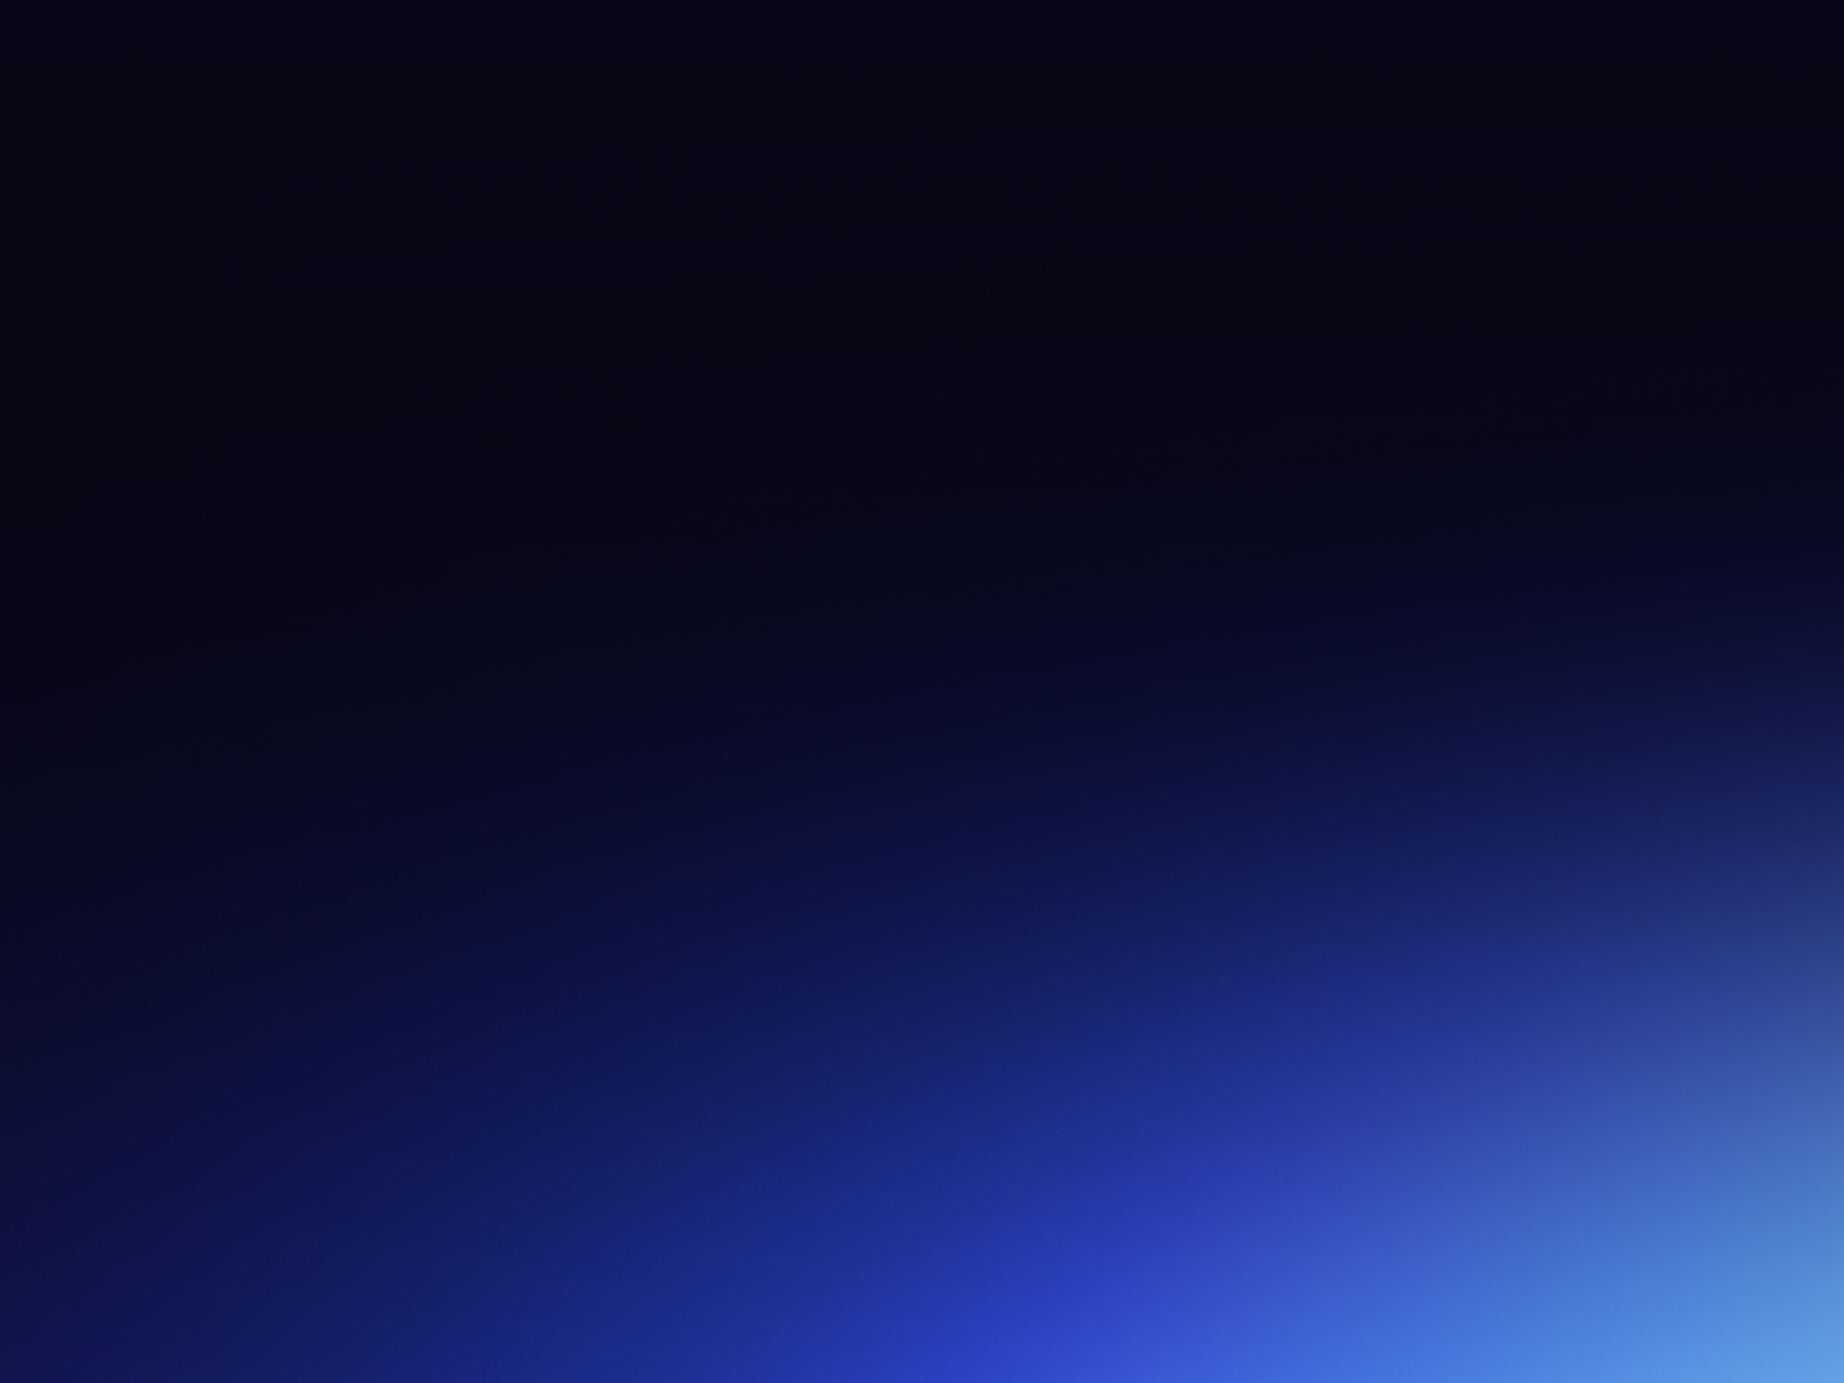
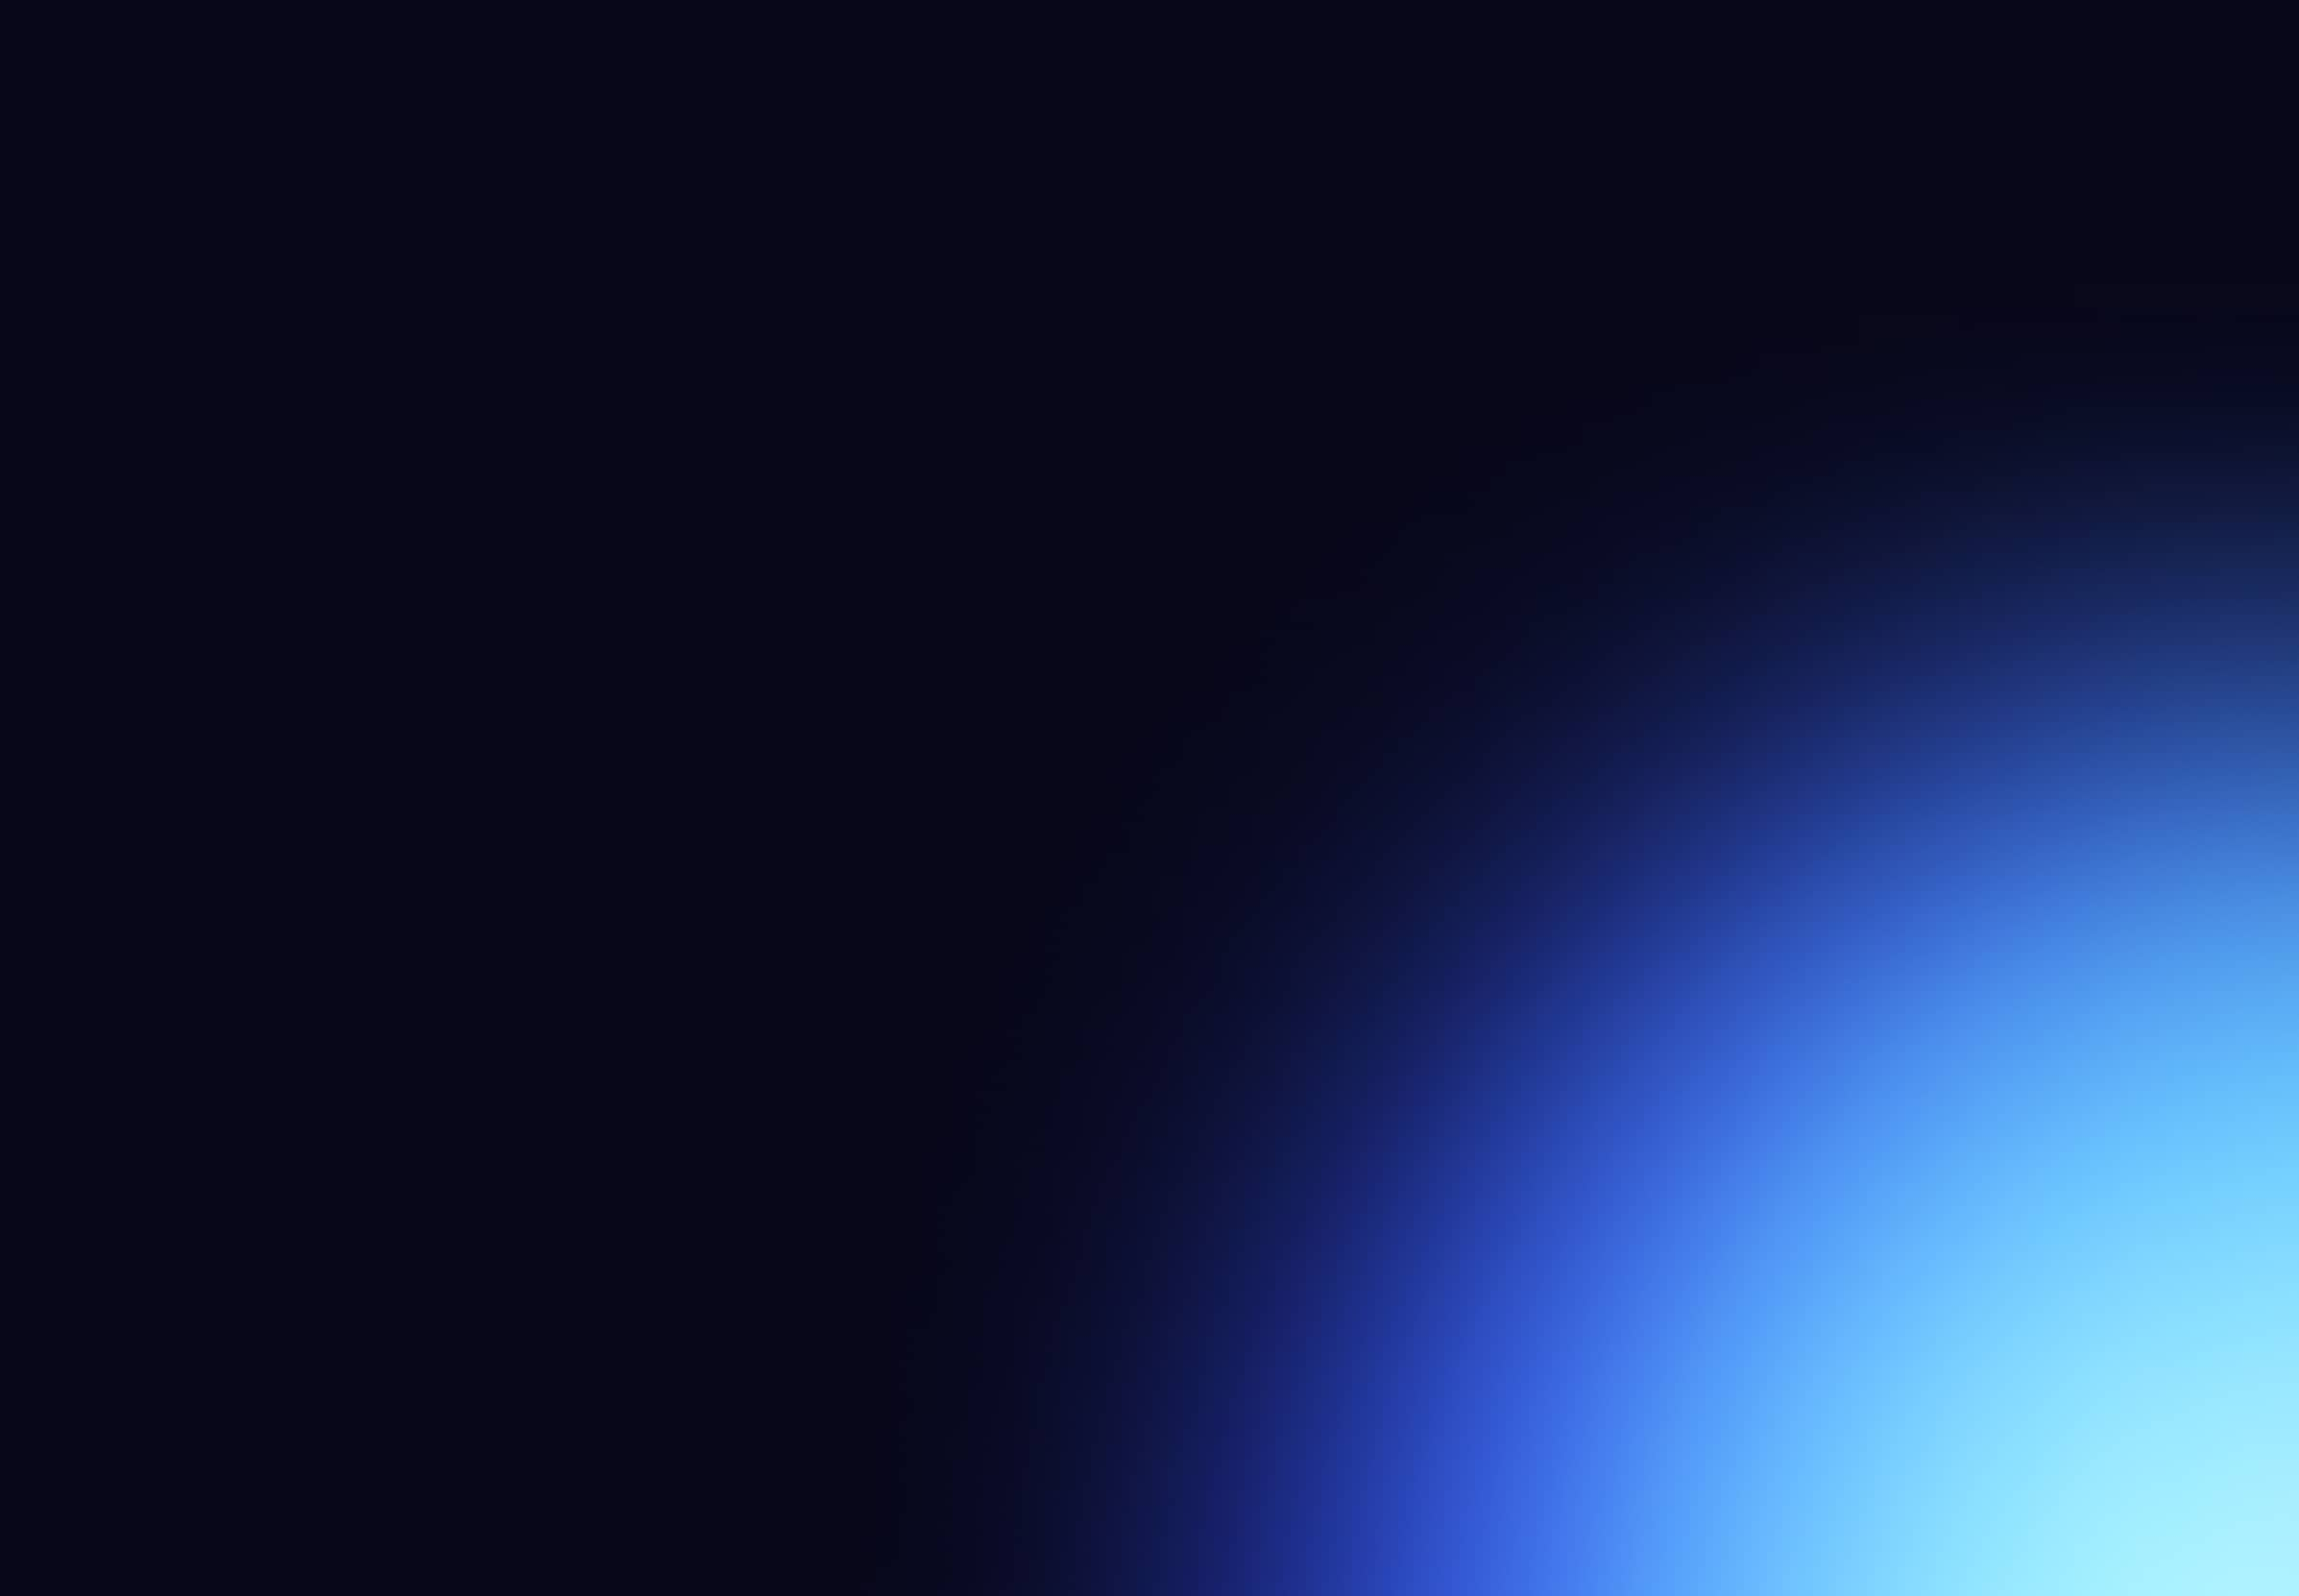
update to white

diff --git a/src/components/landing/section1.tsx b/src/components/landing/section1.tsx
@@ -14,13 +14,13 @@ export const HeaderSection = () => {
             />
 
             {/* Center dot pattern */}
-            {/* <img
+            <img
                 aria-hidden="true"
                 loading="lazy"
-                src="/vector-dot.png"
-                className="pointer-events-none absolute top-[75%] left-1/7 z-0 hidden w-[30%] max-w-[400px] -translate-x-1/2 -translate-y-1/2 md:block dark:brightness-[0.2]"
+                src="/radial-center.png"
+                className="pointer-events-none absolute top-[40%] left-1/2 z-0 hidden w-[50%] max-w-[900px] -translate-x-1/2 -translate-y-1/2 md:block dark:brightness-[0.2]"
                 alt="Center dot pattern"
-            /> */}
+            />
 
             {/* Right corner dot pattern */}
             {/* <img
@@ -50,10 +50,10 @@ export const HeaderSection = () => {
             <section className="relative overflow-hidden pt-0 md:pt-24">
                 <div className="mx-auto w-full max-w-container px-4 md:px-8">
                     <div className="mx-auto flex max-w-5xl flex-col gap-7 md:gap-2 items-center text-center">
-                        <h1 className="text-display-md text-secondary_on-brand font-semibold text-primary mt-9 md:text-display-lg lg:text-display-xl">
+                        <h1 className="text-display-md text-white font-semibold text-primary mt-9 md:text-display-lg lg:text-display-xl">
                             Automation for salespeople.{" "}
                         </h1>
-                        <p className="mt-4 text-secondary_on-brand max-w-3xl text-lg md:mt-6 md:text-xl">
+                        <p className="mt-4 text-white max-w-3xl text-lg md:mt-6 md:text-xl">
                             Getting people to your vehicles and turning them into potential customers is what we do best. Carefully crafted for teams and
                             individuals.
                         </p>

diff --git a/src/app/landing-page.tsx b/src/app/landing-page.tsx
@@ -21,11 +21,11 @@ const HeaderPrimaryDark = (props: ComponentProps<typeof Header>) => {
             {...props}
             className={cx(
                 "bg-[#090717] md:bg-[#090717]", // custom background and border bottom
-                "[&_nav>ul>li>a]:text-secondary_on-brand",
-                "[&_nav>ul>li>a]:hover:text-secondary_on-brand",
-                "[&_nav>ul>li>button]:text-secondary_on-brand",
-                "[&_nav>ul>li>button]:hover:text-secondary_on-brand",
-                "[&_nav>ul>li>button>svg]:text-fg-brand-secondary_alt",
+                "[&_nav>ul>li>a]:text-white",
+                "[&_nav>ul>li>a]:hover:text-white",
+                "[&_nav>ul>li>button]:text-white",
+                "[&_nav>ul>li>button]:hover:text-white",
+                "[&_nav>ul>li>button>svg]:text-white",
                 "[&_svg_path.fill-fg-primary]:fill-fg-white",
                 props.className
             )}

diff --git a/src/components/base/buttons/button.tsx b/src/components/base/buttons/button.tsx
@@ -84,7 +84,7 @@ export const styles = sortCx({
         },
         tertiaryforblack: {
             root: [
-                "text-secondary_on-brand hover:bg-primary_hover hover:text-tertiary_hover data-loading:bg-primary_hover",
+                "text-white hover:bg-primary_hover hover:text-tertiary_hover data-loading:bg-primary_hover",
                 // Icon styles
                 "*:data-icon:text-fg-quaternary hover:*:data-icon:text-fg-quaternary_hover",
             ].join(" "),
